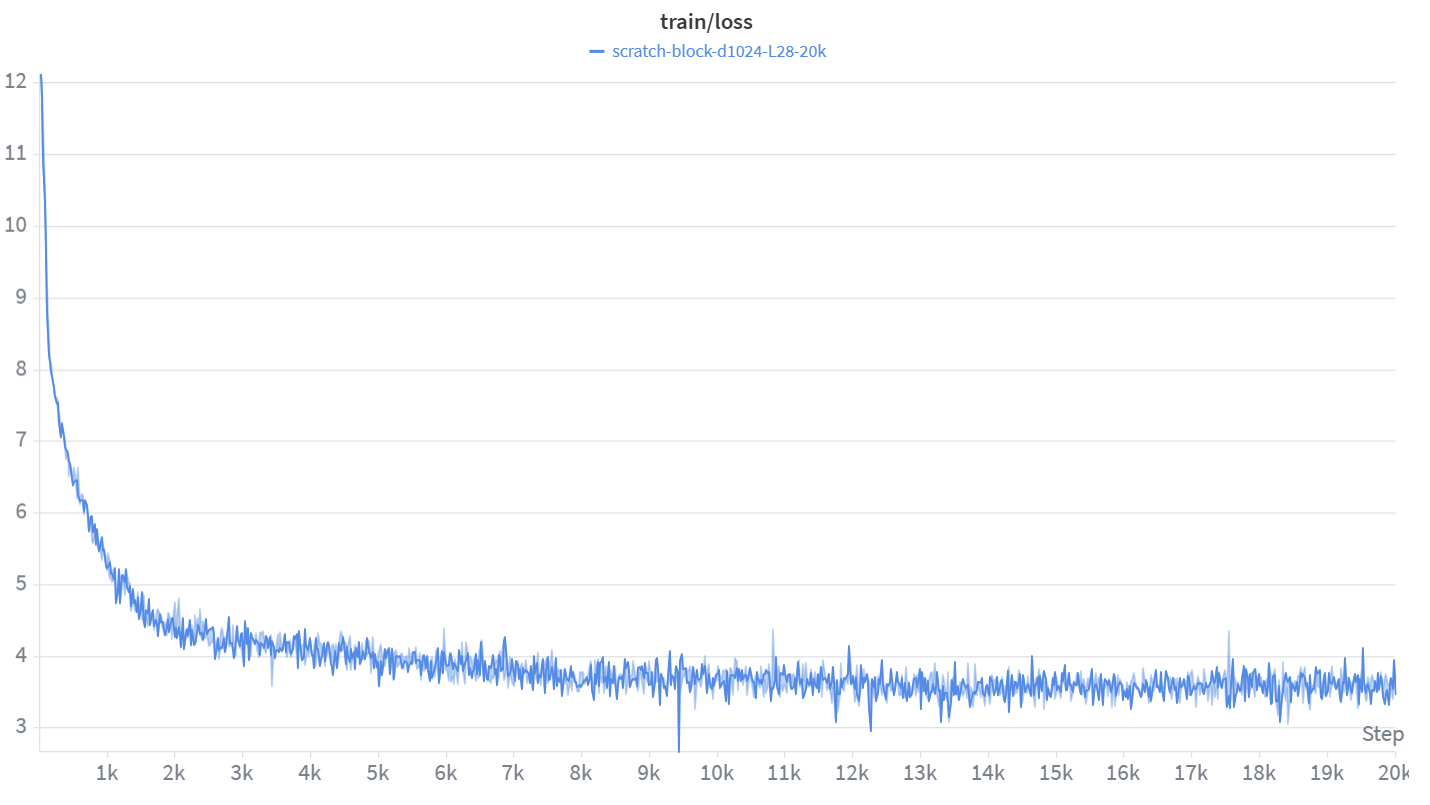
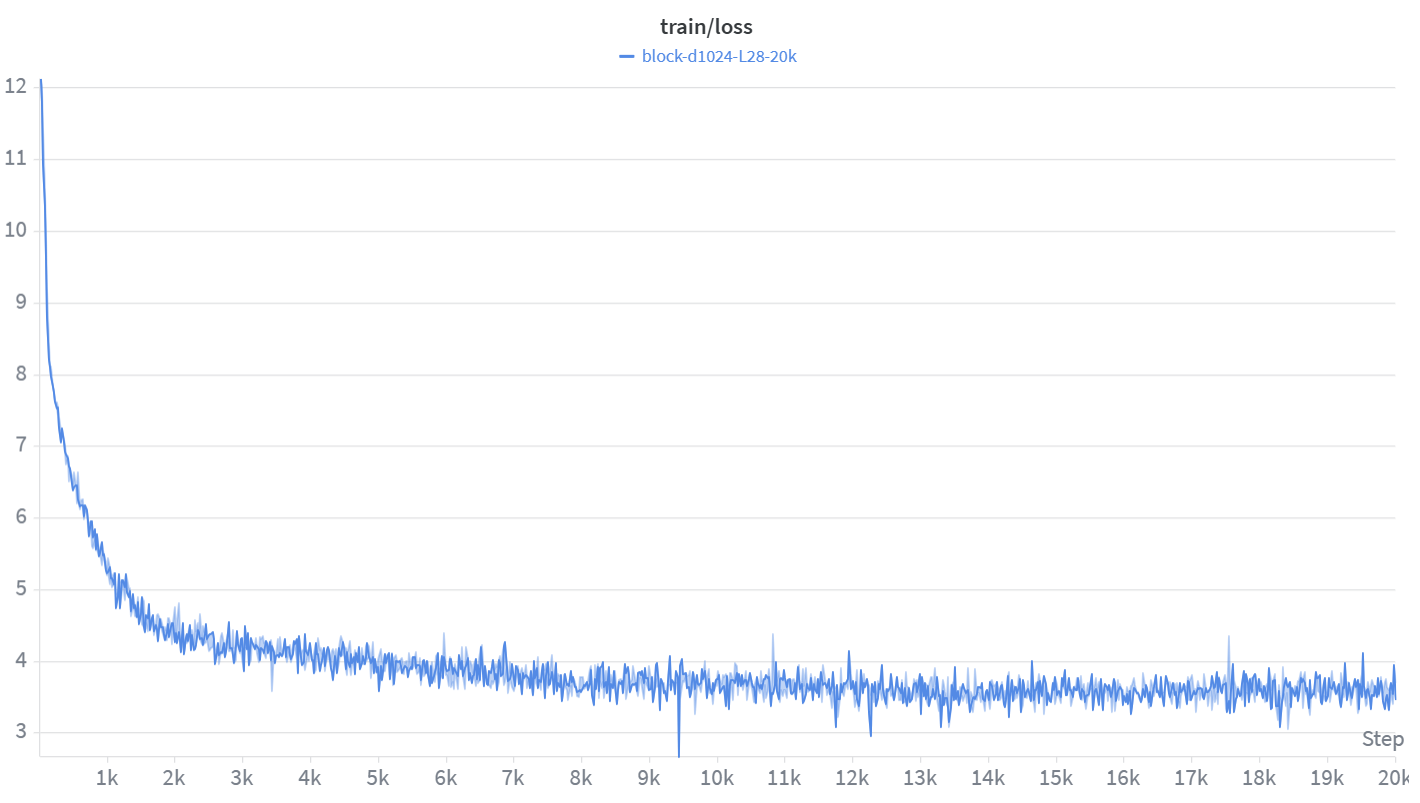
repo update

diff --git a/visualize_helpers.py b/visualize_helpers.py
@@ -1,5 +1,16 @@
 import re
 
+import matplotlib
+import numpy as np
+import torch
+from transformers import AutoTokenizer
+
+matplotlib.use("Agg")
+import matplotlib.pyplot as plt
+
+plt.rcParams["font.sans-serif"] = ["SimHei"]
+plt.rcParams["axes.unicode_minus"] = False
+
 
 def slugify_text(text, max_len=48):
     text = re.sub(r"\s+", "_", text.strip())
@@ -37,3 +48,183 @@ def format_heatmap_annotation(value):
 def select_annotation_color(value, vmax):
     threshold = vmax * 0.5
     return "black" if value >= threshold else "white"
+
+
+def load_tokenizer(model_path):
+    try:
+        return AutoTokenizer.from_pretrained(model_path, trust_remote_code=True)
+    except Exception:
+        return AutoTokenizer.from_pretrained("Qwen/Qwen3-0.6B", trust_remote_code=True)
+
+
+def compute_softmax_weights(blocks, partial_block, proj, norm, recency_bias):
+    v = torch.stack(blocks + [partial_block], dim=0)
+    k = norm(v)
+    query = proj.weight.view(-1)
+    logits = torch.einsum("d, n b t d -> n b t", query, k)
+    logits[-1] = logits[-1] + recency_bias
+    weights = logits.softmax(dim=0)
+    return weights.float()
+
+
+def extract_weights(model, input_ids):
+    """Run a forward pass and capture per-token AttnRes softmax weights."""
+    import modeling_attnres as attnres_mod
+
+    captured = {"attn": {}, "mlp": {}}
+    original_forwards = {}
+
+    for layer_idx, layer in enumerate(model.model.layers):
+        original_forwards[layer_idx] = layer.forward
+
+        def make_patched_forward(lyr, idx):
+            def patched_forward(blocks, partial_block, **kwargs):
+                w_attn = compute_softmax_weights(
+                    blocks, partial_block, lyr.attn_res_proj, lyr.attn_res_norm, lyr.attn_res_bias
+                )
+                captured["attn"][idx] = {
+                    "weights_mean": w_attn.mean(dim=(1, 2)).detach().cpu().numpy(),
+                    "weights_all": w_attn.detach().cpu().numpy(),
+                }
+
+                h_attn = attnres_mod.block_attn_res(
+                    blocks, partial_block, lyr.attn_res_proj, lyr.attn_res_norm, lyr.attn_res_bias
+                )
+                h = lyr._apply_gate(partial_block, h_attn, "attn")
+                attn_out, _ = lyr.self_attn(
+                    hidden_states=lyr.input_layernorm(h),
+                    attention_mask=kwargs.get("attention_mask"),
+                    position_ids=kwargs.get("position_ids"),
+                    past_key_values=kwargs.get("past_key_values"),
+                    use_cache=kwargs.get("use_cache", False),
+                    cache_position=kwargs.get("cache_position"),
+                    position_embeddings=kwargs.get("position_embeddings"),
+                )
+                post_attn_partial = partial_block + attn_out
+
+                if lyr.attnres_mode == "full":
+                    blocks_mlp = blocks + [post_attn_partial]
+                else:
+                    blocks_mlp = blocks
+
+                w_mlp = compute_softmax_weights(
+                    blocks_mlp, post_attn_partial, lyr.mlp_res_proj, lyr.mlp_res_norm, lyr.mlp_res_bias
+                )
+                captured["mlp"][idx] = {
+                    "weights_mean": w_mlp.mean(dim=(1, 2)).detach().cpu().numpy(),
+                    "weights_all": w_mlp.detach().cpu().numpy(),
+                }
+
+                h_mlp = attnres_mod.block_attn_res(
+                    blocks_mlp, post_attn_partial, lyr.mlp_res_proj, lyr.mlp_res_norm, lyr.mlp_res_bias
+                )
+                h = lyr._apply_gate(post_attn_partial, h_mlp, "mlp")
+                mlp_out = lyr.mlp(lyr.post_attention_layernorm(h))
+                final_partial = post_attn_partial + mlp_out
+
+                if lyr.attnres_mode == "full" or lyr.is_block_boundary:
+                    new_blocks = blocks_mlp + [final_partial]
+                else:
+                    new_blocks = blocks_mlp
+                return new_blocks, final_partial
+
+            return patched_forward
+
+        layer.forward = make_patched_forward(layer, layer_idx)
+
+    try:
+        with torch.no_grad():
+            model(input_ids)
+    finally:
+        for layer_idx, layer in enumerate(model.model.layers):
+            layer.forward = original_forwards[layer_idx]
+
+    return captured
+
+
+def plot_layer_deps(captured, num_layers, title="", mode="block"):
+    """Plot the Kimi-style layer dependency heatmap."""
+    num_sublayers = num_layers * 2
+    max_sources = 0
+    for sublayer in ("attn", "mlp"):
+        for data in captured[sublayer].values():
+            max_sources = max(max_sources, len(data["weights_mean"]))
+
+    matrix = np.full((num_sublayers, max_sources), np.nan)
+    for layer_idx in range(num_layers):
+        if layer_idx in captured["attn"]:
+            weights = captured["attn"][layer_idx]["weights_mean"]
+            matrix[layer_idx * 2, :len(weights)] = weights
+        if layer_idx in captured["mlp"]:
+            weights = captured["mlp"][layer_idx]["weights_mean"]
+            matrix[layer_idx * 2 + 1, :len(weights)] = weights
+
+    fig_w = max(10, max_sources * 0.4 + 3) if max_sources > 20 else 10
+    fig, ax = plt.subplots(figsize=(fig_w, 8))
+    cmap = plt.cm.viridis.copy()
+    cmap.set_bad(color="#1a1a2e")
+    masked = np.ma.masked_invalid(matrix)
+    vmin = 0.0
+    vmax = 0.7
+    im = ax.imshow(masked, aspect="auto", cmap=cmap, vmin=vmin, vmax=vmax, interpolation="nearest")
+
+    y_labels = []
+    y_colors = []
+    for layer_idx in range(num_layers):
+        y_labels.extend([f"Attn {layer_idx}", f"MLP {layer_idx}"])
+        y_colors.extend(["#4CAF50", "#FF9800"])
+
+    ax.set_yticks(range(num_sublayers))
+    ax.set_yticklabels(y_labels, fontsize=6)
+    for idx, tick in enumerate(ax.get_yticklabels()):
+        tick.set_color(y_colors[idx])
+        tick.set_fontweight("bold")
+
+    ax.set_xticks(range(max_sources))
+    ax.set_xticklabels(source_tick_labels(mode, max_sources), fontsize=8)
+
+    for row_idx in range(num_sublayers):
+        for col_idx in range(max_sources):
+            value = matrix[row_idx, col_idx]
+            if np.isnan(value):
+                continue
+            ax.text(
+                col_idx,
+                row_idx,
+                format_heatmap_annotation(value),
+                ha="center",
+                va="center",
+                fontsize=6,
+                color=select_annotation_color(value, vmax),
+            )
+
+    ax.set_xlabel(source_axis_label(mode), fontsize=10)
+    ax.set_ylabel("Sublayer", fontsize=10)
+    ax.set_title(title or "Attention Residuals: Layer Dependencies", fontsize=12)
+    plt.colorbar(im, ax=ax, shrink=0.8, label="Weight")
+    plt.tight_layout()
+    return fig
+
+
+def plot_token_weights(captured, tokens, layer_idx, sublayer, num_layers):
+    """Plot per-token AttnRes weights for a specific sublayer."""
+    data = captured[sublayer].get(layer_idx)
+    if data is None:
+        fig, ax = plt.subplots()
+        ax.text(0.5, 0.5, "No data", ha="center", va="center")
+        return fig
+
+    weights = data["weights_all"][:, 0, :]
+    n_sources, n_tokens = weights.shape
+    n_tokens = min(n_tokens, len(tokens))
+
+    fig, ax = plt.subplots(figsize=(max(8, n_tokens * 0.5), max(4, n_sources * 0.4)))
+    cmap = plt.cm.viridis.copy()
+    im = ax.imshow(weights[:, :n_tokens], aspect="auto", cmap=cmap, vmin=0, vmax=0.7)
+    ax.set_xticks(range(n_tokens))
+    ax.set_xticklabels(tokens[:n_tokens], rotation=45, ha="right", fontsize=7)
+    ax.set_ylabel("Source")
+    ax.set_title(f"Layer {layer_idx} {sublayer.upper()} - Per-Token Weights", fontsize=11)
+    plt.colorbar(im, ax=ax, shrink=0.8)
+    plt.tight_layout()
+    return fig

diff --git a/train.py b/train.py
@@ -68,8 +68,10 @@ def parse_args():
     p.add_argument("--save_every", type=int, default=2000)
     p.add_argument("--log_every", type=int, default=10)
     p.add_argument("--out_dir", default=None)
-    p.add_argument("--wandb_project", default="attention-residuals-project")
-    p.add_argument("--wandb_entity", default="3113700669-zhejiang-university")
+    p.add_argument("--use_wandb", action="store_true",
+                   help="Enable Weights & Biases logging. Disabled by default.")
+    p.add_argument("--wandb_project", default="")
+    p.add_argument("--wandb_entity", default="")
     p.add_argument("--run_name", default=None)
     p.add_argument("--seed", type=int, default=42)
     return p.parse_args()
@@ -183,9 +185,9 @@ def main():
     args = parse_args()
 
     if args.run_name is None:
-        args.run_name = f"scratch-{args.mode}-d{args.hidden_size}-L{args.num_layers}-{args.steps//1000}k"
+        args.run_name = f"{args.mode}-d{args.hidden_size}-L{args.num_layers}-{args.steps//1000}k"
     if args.out_dir is None:
-        args.out_dir = f"./output/scratch-{args.mode}-d{args.hidden_size}-L{args.num_layers}-{args.steps//1000}k"
+        args.out_dir = f"./output/{args.mode}-d{args.hidden_size}-L{args.num_layers}-{args.steps//1000}k"
 
     # ── distributed ──
     dist.init_process_group("nccl")
@@ -200,7 +202,7 @@ def main():
 
     # ── W&B ──
     use_wandb = False
-    if is_main:
+    if is_main and args.use_wandb:
         try:
             import wandb
             wandb.init(project=args.wandb_project, entity=args.wandb_entity,
@@ -211,7 +213,7 @@ def main():
 
     # ── model ──
     if is_main:
-        print(f"Building {args.mode} model from scratch...")
+        print(f"Building {args.mode} model...")
 
     model = build_model(args, device)
 

diff --git a/visualize.py b/visualize.py
@@ -14,22 +14,19 @@ import json
 import os
 from datetime import datetime
 
-import matplotlib.pyplot as plt
 import torch
 
-from app import (
-    extract_weights,
-    load_tokenizer,
-    plot_layer_deps,
-    plot_token_weights,
-)
 from eval import load_training_dataset
 from eval_helpers import get_sample_text
 from modeling_attnres import Qwen3AttnResForCausalLM
-from visualize_helpers import make_sample_dirname, select_visualization_texts
-
-plt.rcParams["font.sans-serif"] = ["SimHei"]
-plt.rcParams["axes.unicode_minus"] = False
+from visualize_helpers import (
+    extract_weights,
+    load_tokenizer,
+    make_sample_dirname,
+    plot_layer_deps,
+    plot_token_weights,
+    select_visualization_texts,
+)
 
 
 def parse_args():

diff --git a/README.zh-CN.md b/README.zh-CN.md
@@ -11,7 +11,7 @@ Qwen3 风格的 decoder-only Transformer 上比较标准残差连接与 Attentio
 组装、checkpoint 保存和可视化输出做了适配。
 
 <p align="center">
-  <img src="figures/training_loss_block_0.6B.png">
+  <img src="figures/training_loss_block_0.6B.png" width="700">
 </p>
 
 ## 核心思想
@@ -63,7 +63,6 @@ pip install -r requirements.txt
 - `modelscope`
 - `wandb`
 - `matplotlib`
-- `gradio`
 
 ## 训练
 
@@ -190,7 +189,7 @@ CMMLU 的部分 subject 上做 few-shot 多选题评测。
 | Block Attention Residuals | 105.09 | 0.2969 | 0.2469 |
 
 <p align="center">
-  <img src="figures/training_loss_block_vs_baseline_100M.png">
+  <img src="figures/training_loss_block_vs_baseline_100M.png" width="700">
 </p>
 
 <p align="center">

diff --git a/README.md b/README.md
@@ -77,7 +77,6 @@ Main dependencies include:
 - `modelscope`
 - `wandb`
 - `matplotlib`
-- `gradio`
 
 ## Training
 
